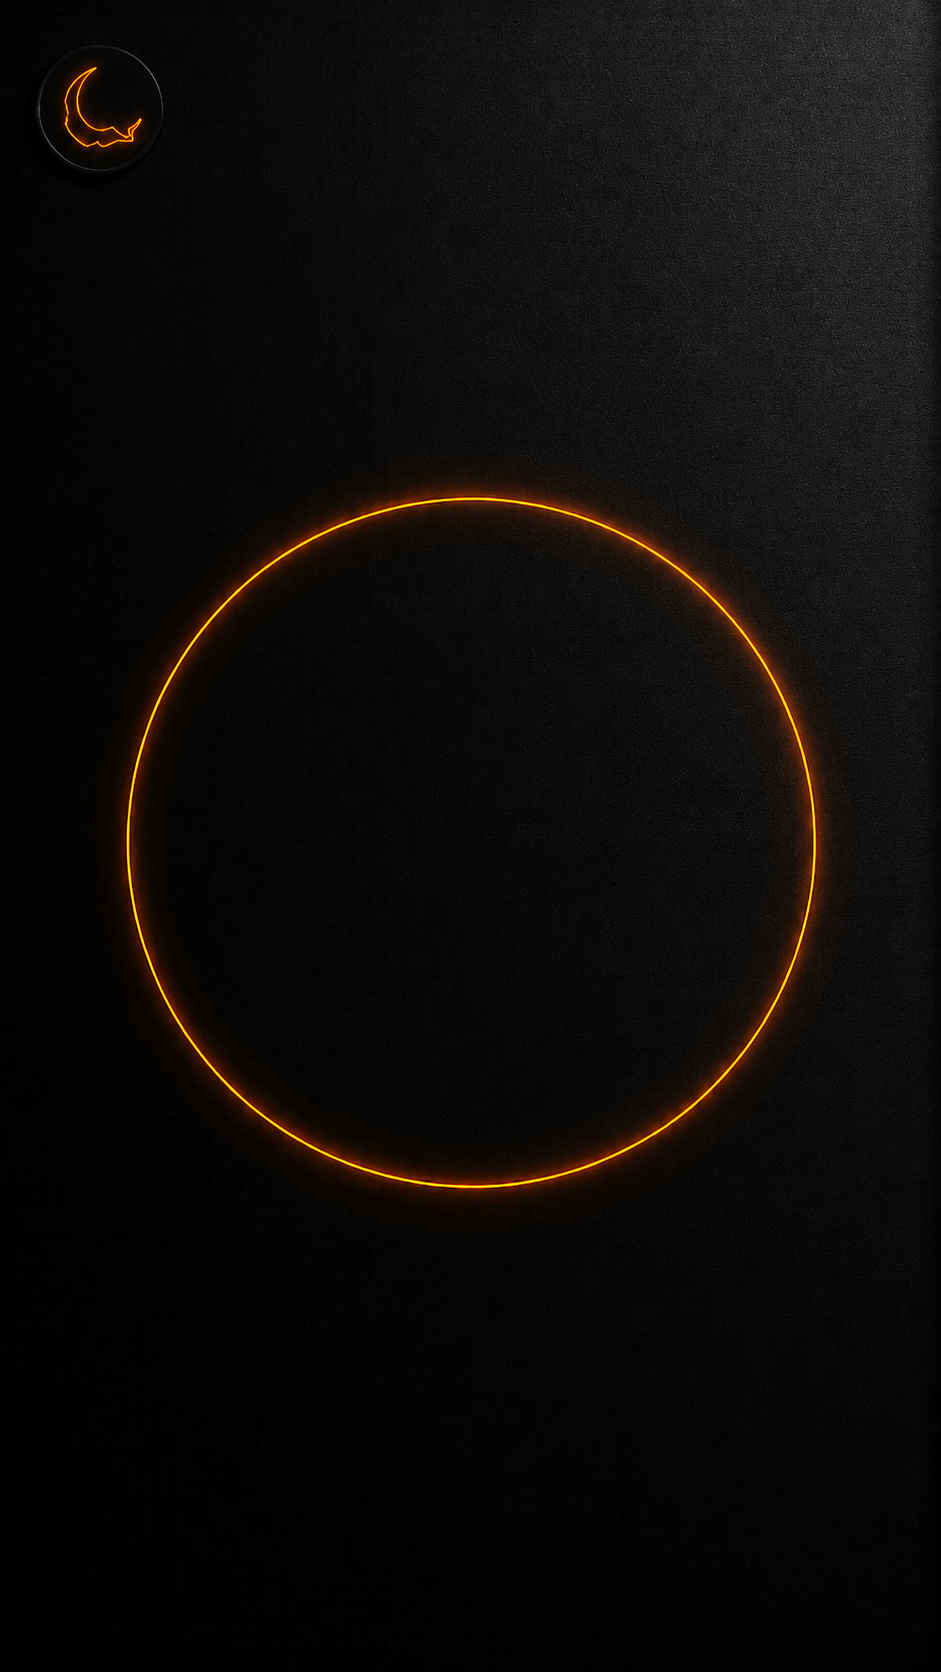
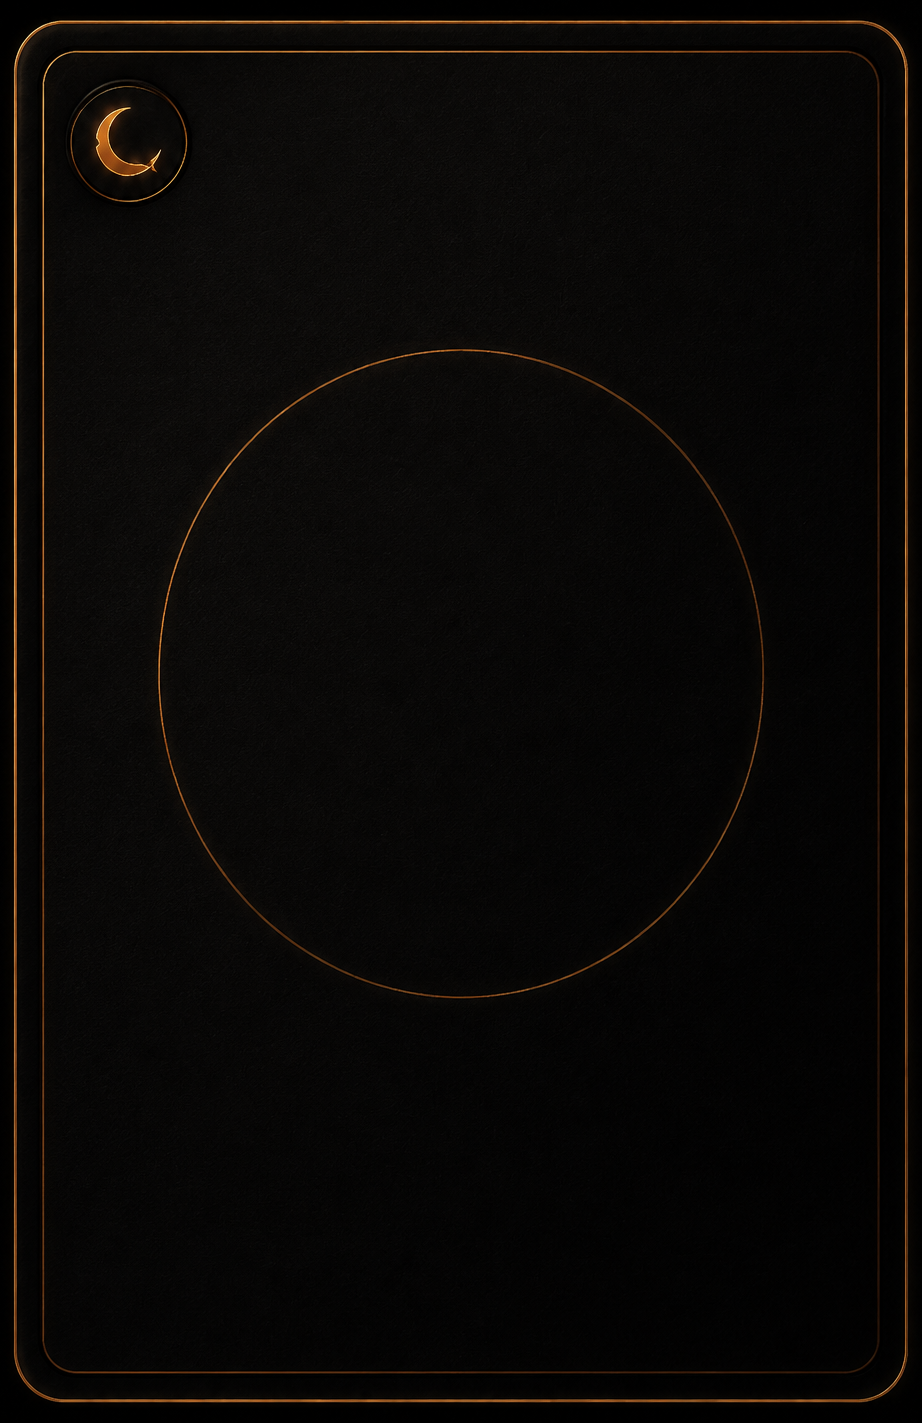
LES EMPLACEMENTS ET LES CARTES SONT LE MÊME OBJET : LE VRAI DOS (empty_card_dos, RECADRÉ SUR SON LISERÉ 922×1423) REMPLACE CELUI QUI ÉTAIT ÉTIRÉ, ET UN GABARIT PARTAGÉ (largeur, ratio 0,648, rayon) RÈGNE SUR LES TROIS VUES — DOS VIDE, VIGNETTE POSÉE, CARTE QUI DESCEND. LA DÉCOUVERTE : LES DEUX DESSI

diff --git a/Woop/Views/SacreAccueil.swift b/Woop/Views/SacreAccueil.swift
@@ -12,6 +12,37 @@ import SwiftUI
 // V1 MÉMOIRE : le store vit le temps du process. Supabase (user_cards)
 // se branchera ENSEMBLE avec Kathryn — jamais sans elle (la règle).
 
+// MARK: LE GABARIT D'UN EMPLACEMENT (la source unique de vérité)
+
+/// Un dos vide et une carte posée sont LE MÊME OBJET à l'écran : même
+/// largeur, même hauteur, même rayon, même place dans la rangée. Ce
+/// gabarit est donc partagé par les trois vues (DosVide,
+/// CarteCollectionnee, DescenteCarte) — plus jamais deux tailles.
+///
+/// Le ratio 0,648 est celui du LISERÉ des cartes, mesuré : la carte
+/// forgée (1086×1448, liseré à 0,6479) et le dos vide (recadré sur son
+/// liseré, 922×1423 → 0,6479) partagent exactement la même silhouette.
+/// Les PNG portaient simplement des marges noires différentes.
+enum GabaritCarte {
+    static let largeur: CGFloat = 80
+    static let ratio: CGFloat = 0.6479
+    static var hauteur: CGFloat { largeur / ratio }
+    static let rayon: CGFloat = 7
+
+    /// L'art de la forge recadré sur son liseré : la vignette prend la
+    /// silhouette exacte de l'emplacement (l'armature de la forge est
+    /// constante, ces fractions valent pour toutes les cartes).
+    static func vignette(_ art: UIImage) -> UIImage {
+        guard let cg = art.cgImage else { return art }
+        let W = CGFloat(cg.width), H = CGFloat(cg.height)
+        let rect = CGRect(x: W * 0.0888, y: H * 0.0405,
+                          width: W * 0.8214, height: H * 0.9486)
+        guard let coupe = cg.cropping(to: rect) else { return art }
+        return UIImage(cgImage: coupe, scale: art.scale,
+                       orientation: art.imageOrientation)
+    }
+}
+
 // MARK: Le store de collection (v1 mémoire)
 
 final class CollectionLune: ObservableObject {
@@ -73,8 +104,11 @@ enum ArtDuSacre {
     static let famillePlaceholder = "carte-lune-1"
     static let art: UIImage? = {
         guard let p = Bundle.main.path(forResource: "carte-lune-1",
-                                       ofType: "png") else { return nil }
-        return UIImage(contentsOfFile: p)
+                                       ofType: "png"),
+              let ui = UIImage(contentsOfFile: p) else { return nil }
+        // Recadrée au gabarit dès le départ : la carte qui descend et la
+        // vignette qui se pose sont la MÊME image, la même silhouette.
+        return GabaritCarte.vignette(ui)
     }()
 }
 
@@ -107,10 +141,9 @@ struct CarteCollectionnee: View {
                     Color.black
                 }
             }
-            .frame(width: 80, height: 80 * 1672.0 / 941.0)
-            .clipShape(RoundedRectangle(cornerRadius: 8, style: .continuous))
-            .overlay(RoundedRectangle(cornerRadius: 8, style: .continuous)
-                .stroke(.white.opacity(0.14), lineWidth: 0.8))
+            .frame(width: GabaritCarte.largeur, height: GabaritCarte.hauteur)
+            .clipShape(RoundedRectangle(cornerRadius: GabaritCarte.rayon,
+                                        style: .continuous))
             if obtenue.count > 1 {
                 Text("×\(obtenue.count)")
                     .font(.system(size: 10, weight: .semibold))
@@ -156,7 +189,7 @@ struct DescenteCarte: View {
             // L'échelle : elle arrive « de loin » (petite), gonfle au
             // plus près de l'œil, puis se pose à la taille du slot.
             let w = 66 + 74 * sin(.pi * min(p * 1.12, 1))
-                + (cible.width - 66) * sstepD(0.55, 1.0, p)
+                + (Double(GabaritCarte.largeur) - 66) * sstepD(0.55, 1.0, p)
             // L'assiette : inclinée en entrée, droite à la pose.
             let pitch = -14 * (1 - e)
             ZStack {
@@ -190,9 +223,11 @@ struct DescenteCarte: View {
                         Color.black
                     }
                 }
-                .frame(width: w, height: w * 1672.0 / 941.0)
+                .frame(width: w, height: w / Double(GabaritCarte.ratio))
                 .clipShape(RoundedRectangle(
-                    cornerRadius: 8 * w / 80, style: .continuous))
+                    cornerRadius: Double(GabaritCarte.rayon) * w
+                        / Double(GabaritCarte.largeur),
+                    style: .continuous))
                 .rotation3DEffect(.degrees(pitch), axis: (x: 1, y: 0, z: 0),
                                   perspective: 0.4)
                 .position(x: x, y: y)

diff --git a/Woop/Views/ProfilLune.swift b/Woop/Views/ProfilLune.swift
@@ -1453,7 +1453,8 @@ struct DosVide: View {
         // MINIATURE une fois pour toutes : 25 dos qui compressent chacun
         // le PNG de 1024×1536 à 80 pt à chaque composition, c'était le
         // scroll qui rame — on rend à 2× la taille d'affichage, fini.
-        let taille = CGSize(width: 160, height: 160 * 1672.0 / 941.0)
+        let taille = CGSize(width: GabaritCarte.largeur * 2,
+                            height: GabaritCarte.hauteur * 2)
         let format = UIGraphicsImageRendererFormat()
         format.scale = 2
         let mini = UIGraphicsImageRenderer(size: taille, format: format)
@@ -1478,33 +1479,34 @@ struct DosVide: View {
             ZStack {
                 Self.dos
                     .resizable()
-                    .aspectRatio(941.0 / 1672.0, contentMode: .fit)
+                    .aspectRatio(GabaritCarte.ratio, contentMode: .fill)
                     .saturation(0.05)
                     .brightness(-0.015)
                 Self.dos
                     .resizable()
-                    .aspectRatio(941.0 / 1672.0, contentMode: .fit)
+                    .aspectRatio(GabaritCarte.ratio, contentMode: .fill)
                     .opacity(allume)
                 Self.dos
                     .resizable()
-                    .aspectRatio(941.0 / 1672.0, contentMode: .fit)
+                    .aspectRatio(GabaritCarte.ratio, contentMode: .fill)
                     .blendMode(.screen)
                     .opacity(0.55 * allume)
                 Self.dos
                     .resizable()
-                    .aspectRatio(941.0 / 1672.0, contentMode: .fit)
+                    .aspectRatio(GabaritCarte.ratio, contentMode: .fill)
                     .blur(radius: 5)
                     .blendMode(.screen)
                     .opacity(0.5 * allume)
             }
-            // Le dos RESPIRE dans son gabarit (2,5 pt d'air) : la petite
-            // lune du coin gauche ne touche plus le rayon — elle était
-            // coupée (verdict).
-            .padding(2.5)
-            // Gabarit explicite (quatre dos par rangée) + le rayon de
-            // 8 pt demandé. (Plus de lunes sous les dos.)
-            .frame(width: 80, height: 80 * 1672.0 / 941.0)
-            .clipShape(RoundedRectangle(cornerRadius: 8, style: .continuous))
+            // LE GABARIT PARTAGÉ : un dos vide et une carte posée sont
+            // le même objet à l'écran — même largeur, même hauteur, même
+            // rayon, même place. (Le padding d'air a été retiré : le PNG
+            // a des coins carrés, c'est le clip qui fait l'arrondi — en
+            // rétrécissant l'image il tuait les coins ET faisait dépasser
+            // les cartes posées.)
+            .frame(width: GabaritCarte.largeur, height: GabaritCarte.hauteur)
+            .clipShape(RoundedRectangle(cornerRadius: GabaritCarte.rayon,
+                                        style: .continuous))
             .scaleEffect(1 + 0.035 * pulse)
         }
         .buttonStyle(.plain)
